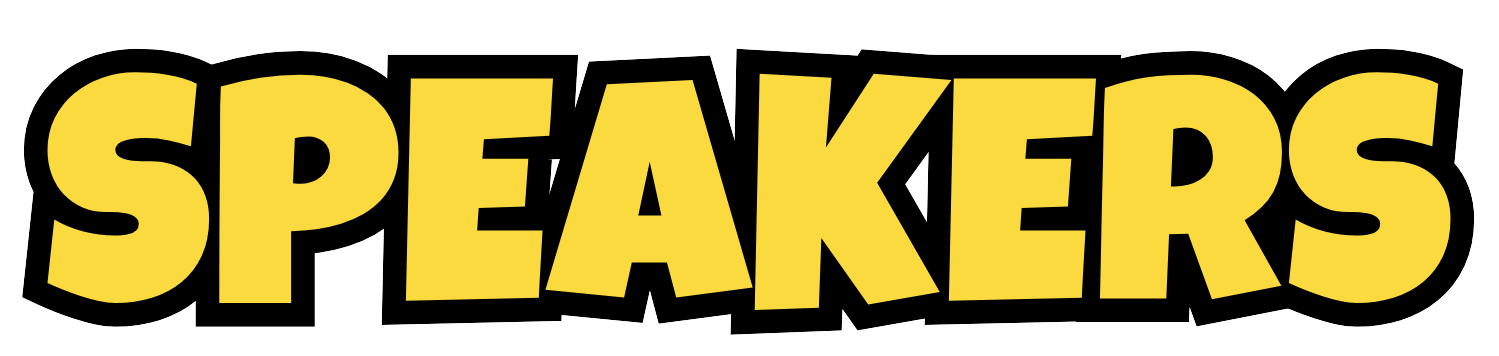
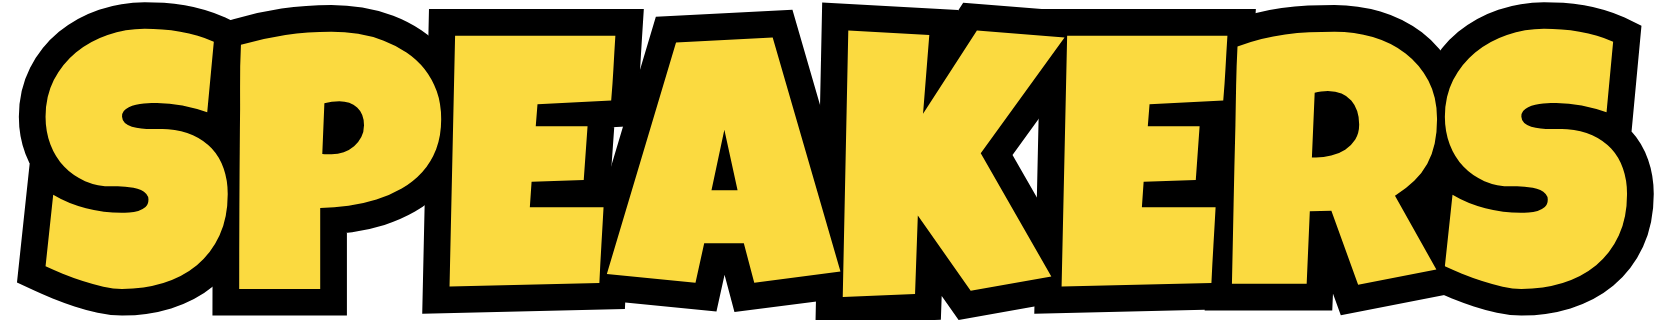
Heading png changes added

diff --git a/client/src/components/Takeaways/Takeaways.jsx b/client/src/components/Takeaways/Takeaways.jsx
@@ -2,8 +2,6 @@ import React, { useEffect } from 'react';
 import { motion, useAnimation } from 'framer-motion';
 import { useInView } from 'react-intersection-observer';
 
-
-
 export default function Takeaways() {
   const cardTextStyle = {
     fontFamily: "'Comic Neue', cursive",
@@ -33,7 +31,7 @@ export default function Takeaways() {
     <div className=" text-white px-12 sm:px-12 md:px-20 lg:px-32 py-4">
       {/* Header */}
       <div className=" flex justify-center items-center">
-        <img src="/takeaway.png" alt="Takeaways" className="h-28 md:h-28 lg:h-75" />
+        <img src="/takeaways.png" alt="Takeaways" className="h-15 md:h-0 lg:h-18 mb-10" />
       </div>
 
       {/* FIrst Section: JUIT */}

diff --git a/client/src/components/Home/Home.jsx b/client/src/components/Home/Home.jsx
@@ -210,9 +210,9 @@ export default function Home() {
       <div id="events-content" className="mt-10 px-4 md:px-8 lg:px-16 mb-10">
         <Events />
       </div>
-      {/* { <div id="events-takeawats" className="mt-20 px-4 md:px-8 lg:px-16 mb-20">
+      <div id="events-takeawats" className="mt-20 px-4 md:px-8 lg:px-16 mb-20">
         <Takeaways />
-      </div> } */}
+      </div>
       <div id="speakers-content" className="mt-10 px-4 md:px-8 lg:px-16">
         <PastSpeakers /> {/* Replaced Speakers with PastSpeakers */}
       </div>

diff --git a/client/src/components/Events/Events.jsx b/client/src/components/Events/Events.jsx
@@ -86,7 +86,7 @@ export default function Events() {
   return (
     <div className=" relative min-h-screen w-full flex flex-col items-center bg-cover bg-center bg-no-repeat">
       <div className="flex justify-center mb-3 mt-10">
-        <img src="/events.png" alt="EVENTS" className="h-12 md:h-16 lg:h-22" />
+        <img src="/events.png" alt="EVENTS" className="h-15 md:h-0 lg:h-18" />
       </div>
       <div className="max-w-7xl mx-8 px-10 md:px-8 lg:px-0">
         <div className="flex flex-wrap justify-center gap-16 mt-10">

diff --git a/client/src/components/Speakers/PastSpeakers.jsx b/client/src/components/Speakers/PastSpeakers.jsx
@@ -14,7 +14,7 @@ export default function PastSpeakers() {
   return (
     <div className="relative min-h-screen w-full flex flex-col items-center px-4 py-2">
       <div className="flex justify-center items-center">
-        <img src="/past.png" alt="SPEAKERS" className="h-20 md:h-16 lg:h-25" />
+        <img src="/past.png" alt="SPEAKERS" className="h-15 md:h-0 lg:h-18" />
       </div>
       <div className="grid grid-cols-1 sm:grid-cols-2 md:grid-cols-2 gap-12 mt-10">
         {speakers.map((speaker, index) => (

diff --git a/client/src/components/Home/About.jsx b/client/src/components/Home/About.jsx
@@ -52,7 +52,7 @@ export default function AboutUs() {
     <div className="text-white min-h-screen px-12 sm:px-12 md:px-20 lg:px-32 py-4">
       {/* Header */}
       <div className="flex justify-center mb-20">
-        <img src="/about.png" alt="About Us" className="h-28 md:h-28 lg:h-25" />
+        <img src="/about.png" alt="About Us" className="h-15 md:h-0 lg:h-18" />
       </div>
 
       {/* FIrst Section: JUIT */}

diff --git a/client/src/components/Sponsers/Sponsers.jsx b/client/src/components/Sponsers/Sponsers.jsx
@@ -40,7 +40,7 @@ export default function Sponsers() {
           <motion.img
             src="/pastsponsors.png"
             alt="SPONSORS"
-            className="h-13 md:h-16 lg:h-23"
+            className="h-15 md:h-0 lg:h-18"
           />
         </motion.div>
         <div className="flex flex-col items-center w-full px-4 md:px-8 lg:px-16">

diff --git a/client/src/components/ui/infinite-moving-cards.jsx b/client/src/components/ui/infinite-moving-cards.jsx
@@ -86,7 +86,7 @@ export const InfiniteMovingCards = ({
           </li>
         ))}
       </ul>
-      <style jsx>{`
+      <style jsx="true">{`
         @keyframes scroll {
           0% {
             transform: translateX(0);
